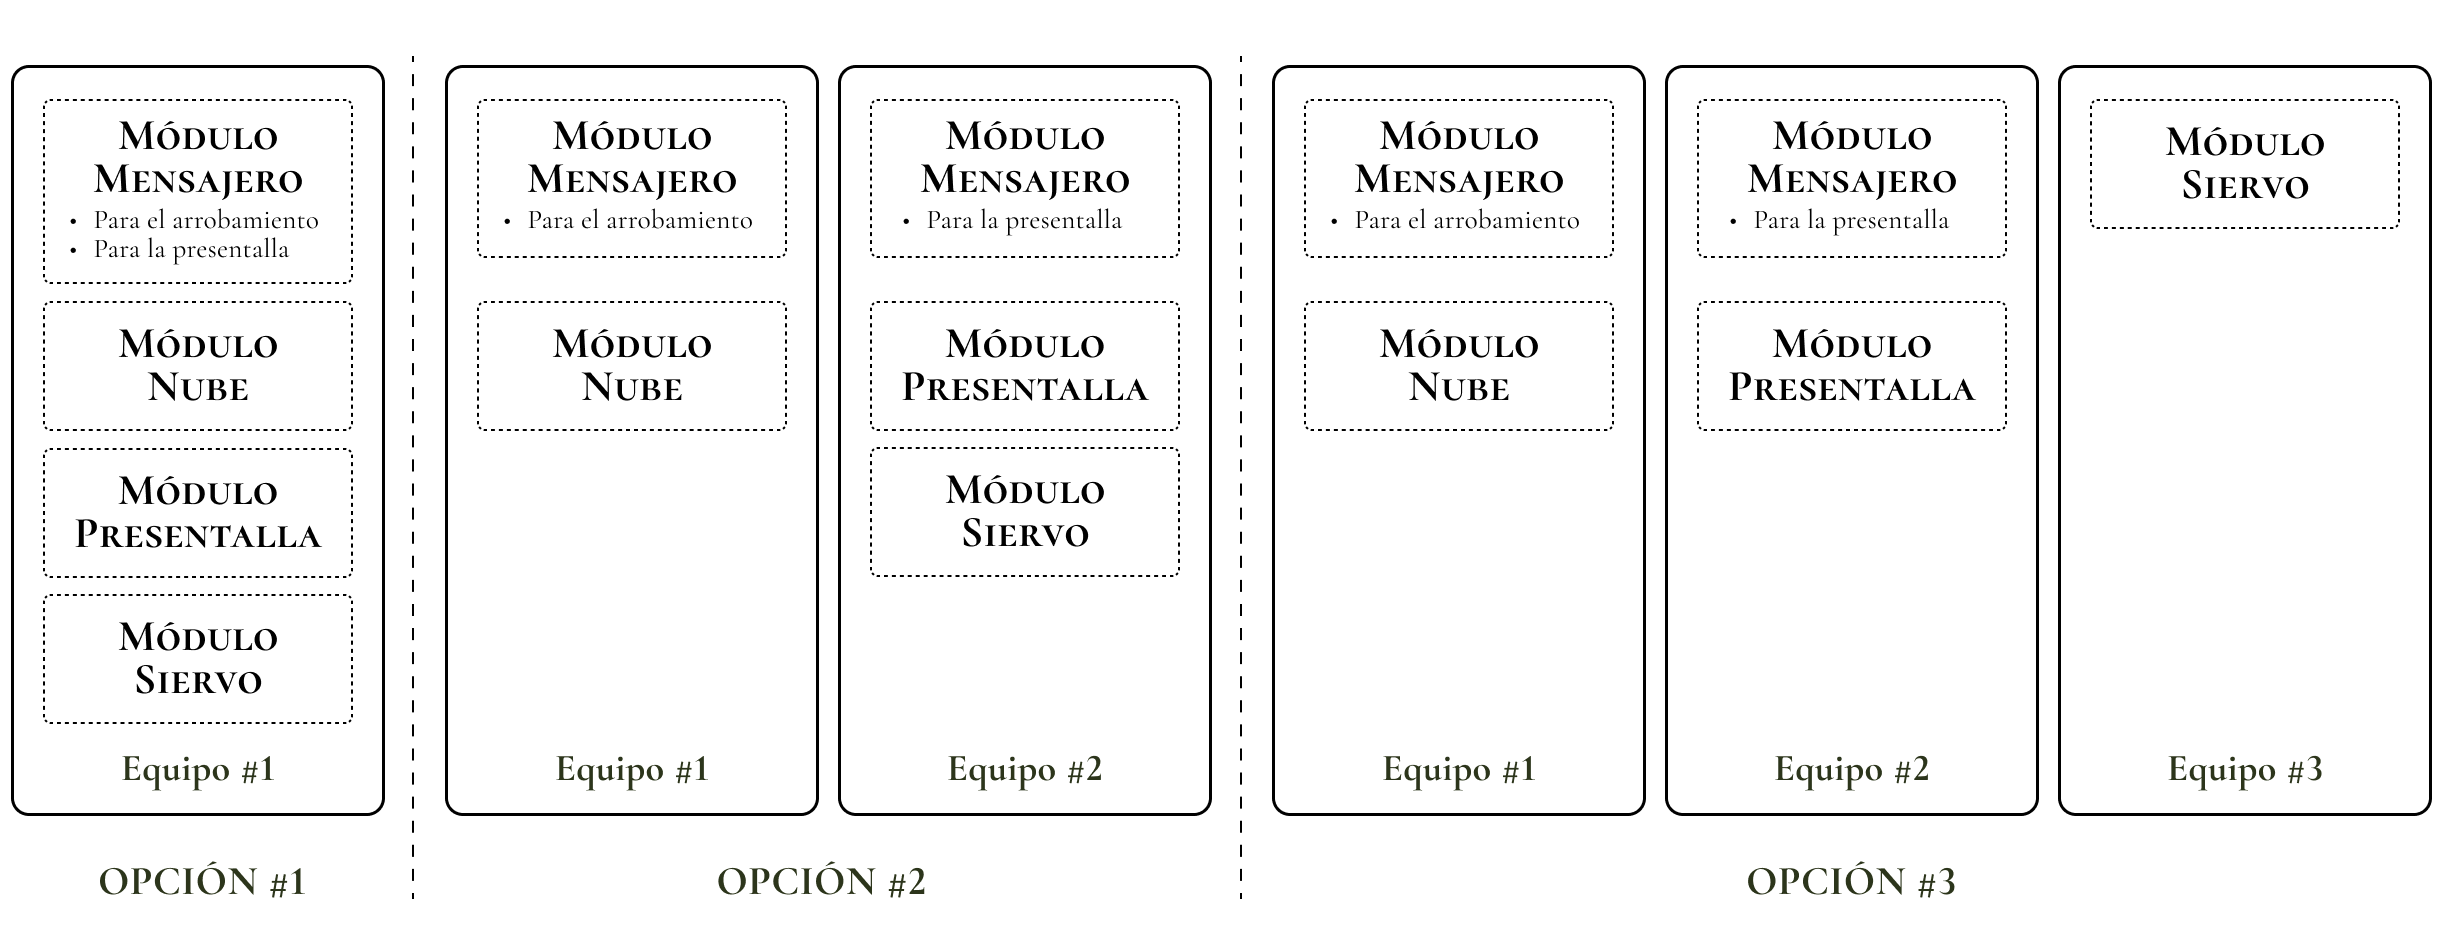
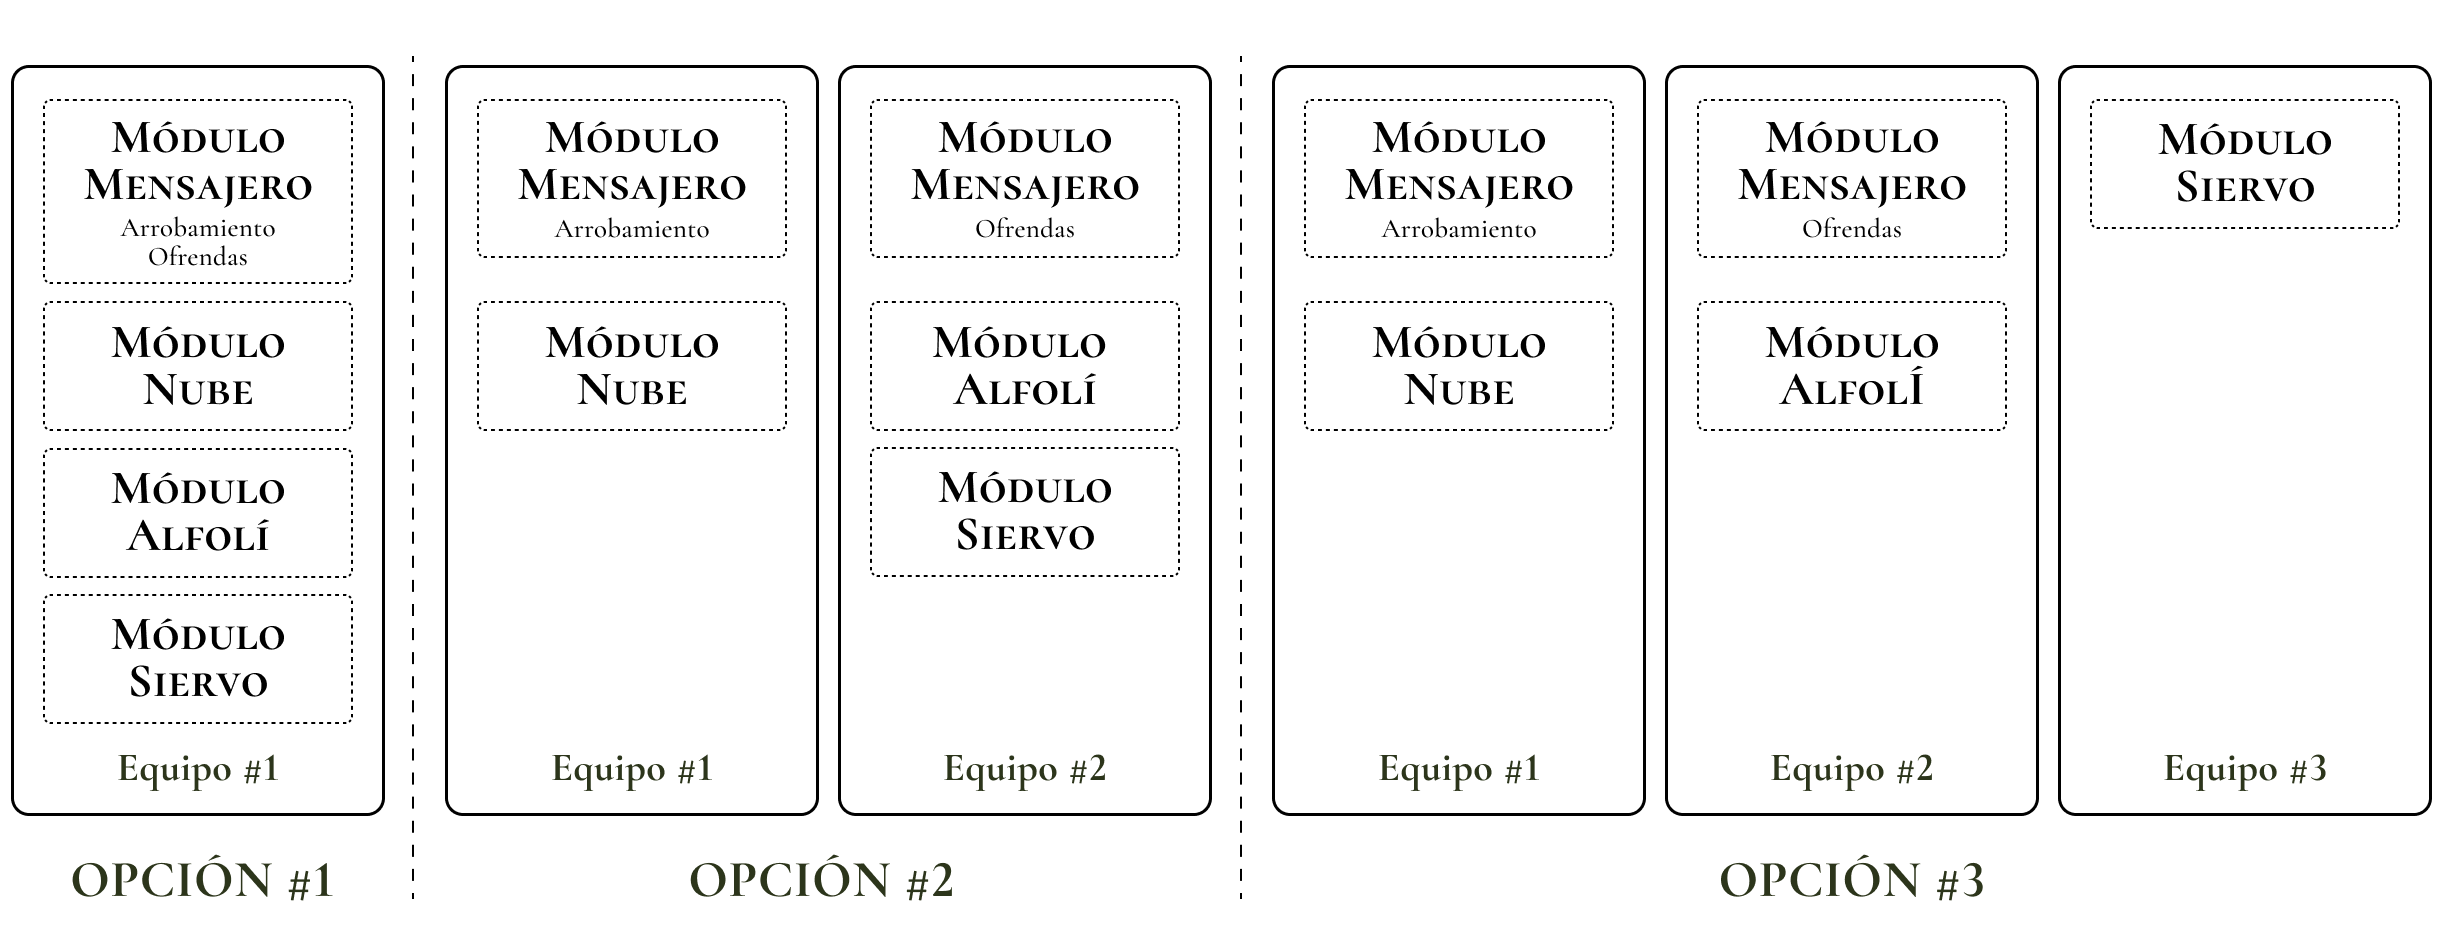
Actualización del "README.md"

diff --git a/README.md b/README.md
@@ -23,21 +23,23 @@ La pantalla es la creencia fundacional de la obra. “La Nube” es una pantalla
 # La Canalización Divina
 La comunicación entre las pantallas (páginas web) ocurre mediante el intercambio de mensajes OSC (*Open Sound Control*) basado, a su vez, en el protocolo UDP (*User Datagram Protocol*) y que tienen lugar gracias a la intervención mediadora de dos "*Web Sockets*" que permiten, por un lado, la interacción entre el seguidor/siervo y su objeto de veneración ("La Nube") y, por otro lado, la recaudación encubierta de los datos personales del celular como ofrendas digitales incondicionales.
 
-- **WEB SOCKET 1 - "El Arrobamiento" (puerto 8081)**: responsable del vínculo directo entre "La Nube" y el seguidor/siervo. Mediante recompensas obscenas, se insta al seguidor a realizar un "*scroll* infinito" en su propia pantalla táctil como acto de obnubilación y arrobamiento celestial.
-- **WEB SOCKET 2 - "La Ofrenda" (puerto 8091)**: responsable de extraer, recolectar y analizar furtivamente los datos del celular del seguidor/siervo (sus ofrendas digitales) para procesarlos y presentarlos en la pantalla de "El Alfolí" como evidencia del acto de renuncia y entrega divina.
+- **WEB SOCKET #1 - "El Arrobamiento" (puerto 8081)**: responsable del vínculo directo entre "La Nube" y el seguidor/siervo. Mediante recompensas obscenas, se insta al seguidor a realizar un "*scroll* infinito" en su propia pantalla táctil como acto de obnubilación y arrobamiento celestial.
+- **WEB SOCKET #2 - "Las Ofrendas" (puerto 8091)**: responsable de extraer, recolectar y analizar furtivamente los datos del celular del seguidor/siervo (sus ofrendas digitales) para procesarlos y presentarlos en la pantalla de "El Alfolí" como evidencia del acto de renuncia y entrega divina.
 
 ![Diagrama de "La Obra"](imagineria/SOS-la-obra.png)
 
 # Detalles de la Tecnofanía
-"La Obra" está constituida por seis módulos (tres de ellos son las pantallas antes mencionadas). A continuación se describe en detalle la función de cada uno de ellos: tres pantallas y un módulo responsable de la conexión (mediante *web sockets*) y de la mensajería inter-pantalla (a través del protocolo OSC) que, por un lado, estimula el "arrobamiento" de los seguidores durante su veneración a "La Nube" y, por otro lado, encubre el acto de extracción sus "ofrendas digitales".
+"La Obra" está constituida por seis módulos (tres de ellos son las pantallas antes mencionadas). A continuación se describe en detalle la función de cada uno de ellos: 
+
 1. **MÓDULO NUBE (puerto 3330)**: alojado dentro de la carpeta `sos.nube`, almacena las escrituras sagradas (instrucciones en Processing y GLSL) que dan forma a la pantalla principal de "La Nube" que se proyecta en el recinto.
-2. **MÓDULO ALFOLI (puerto 3331)**, disponible dentro de la carpeta `sos.alfoli`, codifica los comandos que, de manera furtiva, contabilizan la colecta de las ofrendas digitales para monitorearlas desde la pantalla opuesta a la principal, proyectada con la forma de una caja de ofrendas.
+2. **MÓDULO ALFOLI (puerto 3331)**, disponible dentro de la carpeta `sos.alfoli`, codifica los comandos que, de manera furtiva, contabilizan la colecta de las ofrendas digitales para monitorearlas desde la pantalla opuesta a la principal, proyectada con la forma de un cofre de ofrendas.
 3. **MÓDULO SIERVO (puerto 3332)**: ubicado en la carpeta `sos.siervo`, contiene el código desarrollado para la pantalla del seguidor que se manifiesta como una aplicación móvil con un *feed* infinito de recompensa eterna para su usuario.
 4. **MÓDULO MENSAJERO** conformado por dos conectores (*web sockets*) alojados en la carpeta `sos.mensajero` que actuán como intermediarios, posibilitando la conexión inter-pantalla a través de mensajería OSC.
   - **Mensajería del "Arrobamiento" [web socket / puerto 8081]** para conectar al siervo con "La Nube" durante el acto de arrobamiento. Los mensajes OSC son transmitidos al **puerto 3333**.
-  - **Mensajería de las "Ofrendas" [web socket / puerto 8091]** para extraer del siervo sus ofrendas digitales y contabilizarlas discretamente en la pantalla separada con la forma de un alfolí. Los mensajes OSC son reencaminados al **puerto 3334**.
-5. **MÓDULO CONFIG**: dentro de la carpeta `sos.config`, define parámetros generales utilizados por los restantes módulos como, por ejemplo, los números de IPs y los números de puerto a utilizar por las pantallas y el mensajero.
-6. **MÓDULO SOCORRO**: disponible en la carpeta `sos.socorro`, brinda una serie de funciones para asistir al programador en apuros en la creación de obras para pantallas e instalaciones. Básicamente, este módulo constituye un paquete independiente para encapsular y simplificar el acceso a las librerías para generación de gráficos como Three.js y p5js.
+  - **Mensajería de las "Ofrendas" [web socket / puerto 8091]** para extraer del siervo sus ofrendas digitales y contabilizarlas discretamente en la pantalla separada con la forma de un "alfolí". Los mensajes OSC son reencaminados al **puerto 3334**.
+5. **MÓDULO CONFIG**: dentro de la carpeta `sos.config`, define los parámetros generales utilizados por los restantes módulos como, por ejemplo, los números de IPs y los números de puerto a ser ocupados por las pantallas y por los componentes del mensajero.
+6. **MÓDULO SOCORRO**: disponible en la carpeta `sos.socorro`, brinda una serie de funciones para asistir al programador en apuros en la creación de obras para pantallas e instalaciones. Básicamente, este módulo constituye un paquete independiente (creado con `npm`) para encapsular y unificar el acceso a las librerías para la generación de gráficos como **Three.js** y **p5js**.
+
 
 # Instalación
 El proyecto utiliza el entorno de ejecución de código JavaScript *open-source* **[nodejs](https://nodejs.org/)** junto con el software para la administración de paquetes de código **[npm](https://docs.npmjs.com/about-npm)**, que permite llevar registro y compartir paquetes de aplicaciones. También se emplea el software **[Vite](https://vite.dev/)** como herramienta de desarrollo.
@@ -60,10 +62,11 @@ La instalación de los módulos requeridos para la ceremonia de "La Obra" puede 
 
 ### Configuración de IPs y puertos
 En caso de realizar una instalación en múltiples equipos es preciso recordar que el módulo de configuración (**CONFIG**) debe estar presente en cada uno de ellos ya que contiene la definición de los parámetros generales. Antes de proseguir, se debe editar el archivo `.env` del módulo de configuración para definir los IPs de los equipos donde se realizó la instalación. No es necesario modificar la información vinculada a los puertos.
-> **NOTA**: todos los equipos deben estar conectados a la misma red wifi para que la mensajería OSC funcione.
+> **NOTA**: todos los equipos deben estar conectados a la misma red wifi para que la mensajería OSC funcione correctamente.
 
 ### Instalación de paquetes y dependencias
-Para instalar los paquetes y las dependencias de los módulos de "La Obra", moverse dentro de cada subcarpeta y ejecutar el comando `npm i` en cada una de ellas. En caso de realizar una instalación en múltiples equipos sólo es necesario instalar, en cada uno de ellos, los módulos que se vayan a utilizar, como explica el diagrama más arriba. Los módulos que se deben instalar son los siguientes cuatro:
+Para instalar los paquetes y las dependencias de los módulos de "La Obra", moverse dentro de cada subcarpeta y ejecutar el comando `npm i` en cada una de ellas. En caso de realizar una instalación en múltiples equipos sólo es necesario instalar en cada uno de ellos los módulos que se vayan a utilizar, como explica el diagrama más arriba. Los módulos que requieren instalación son los siguientes cuatro:
+
 ```sh
 $ cd sos.nube
 $ npm i
